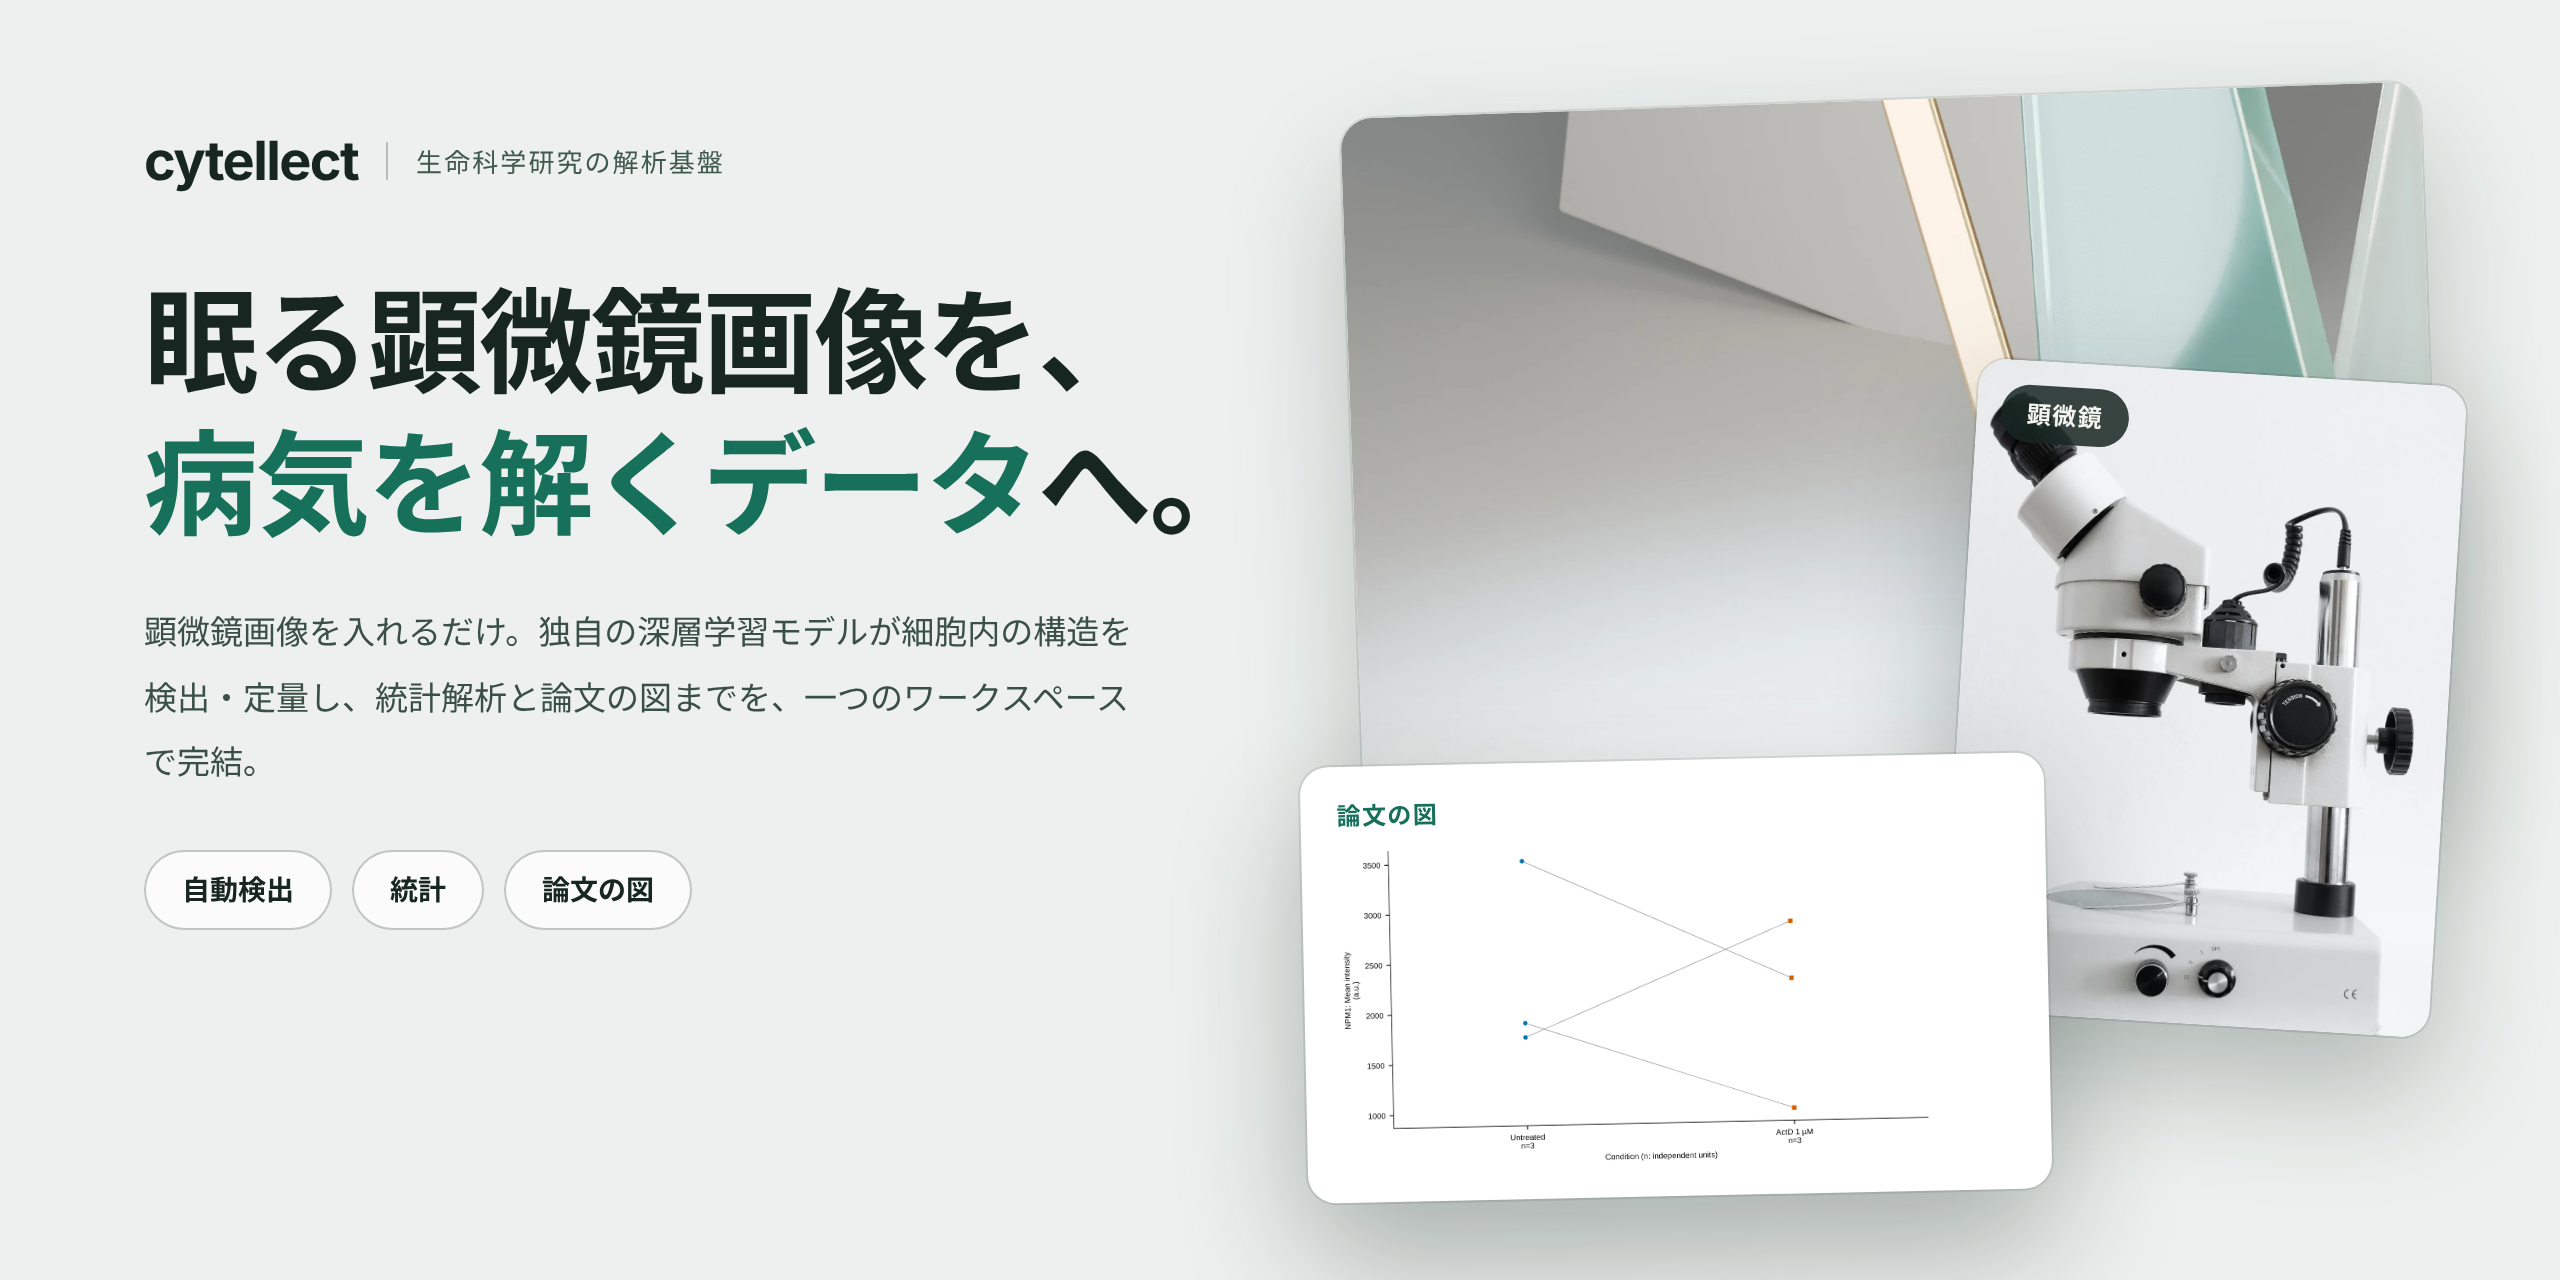
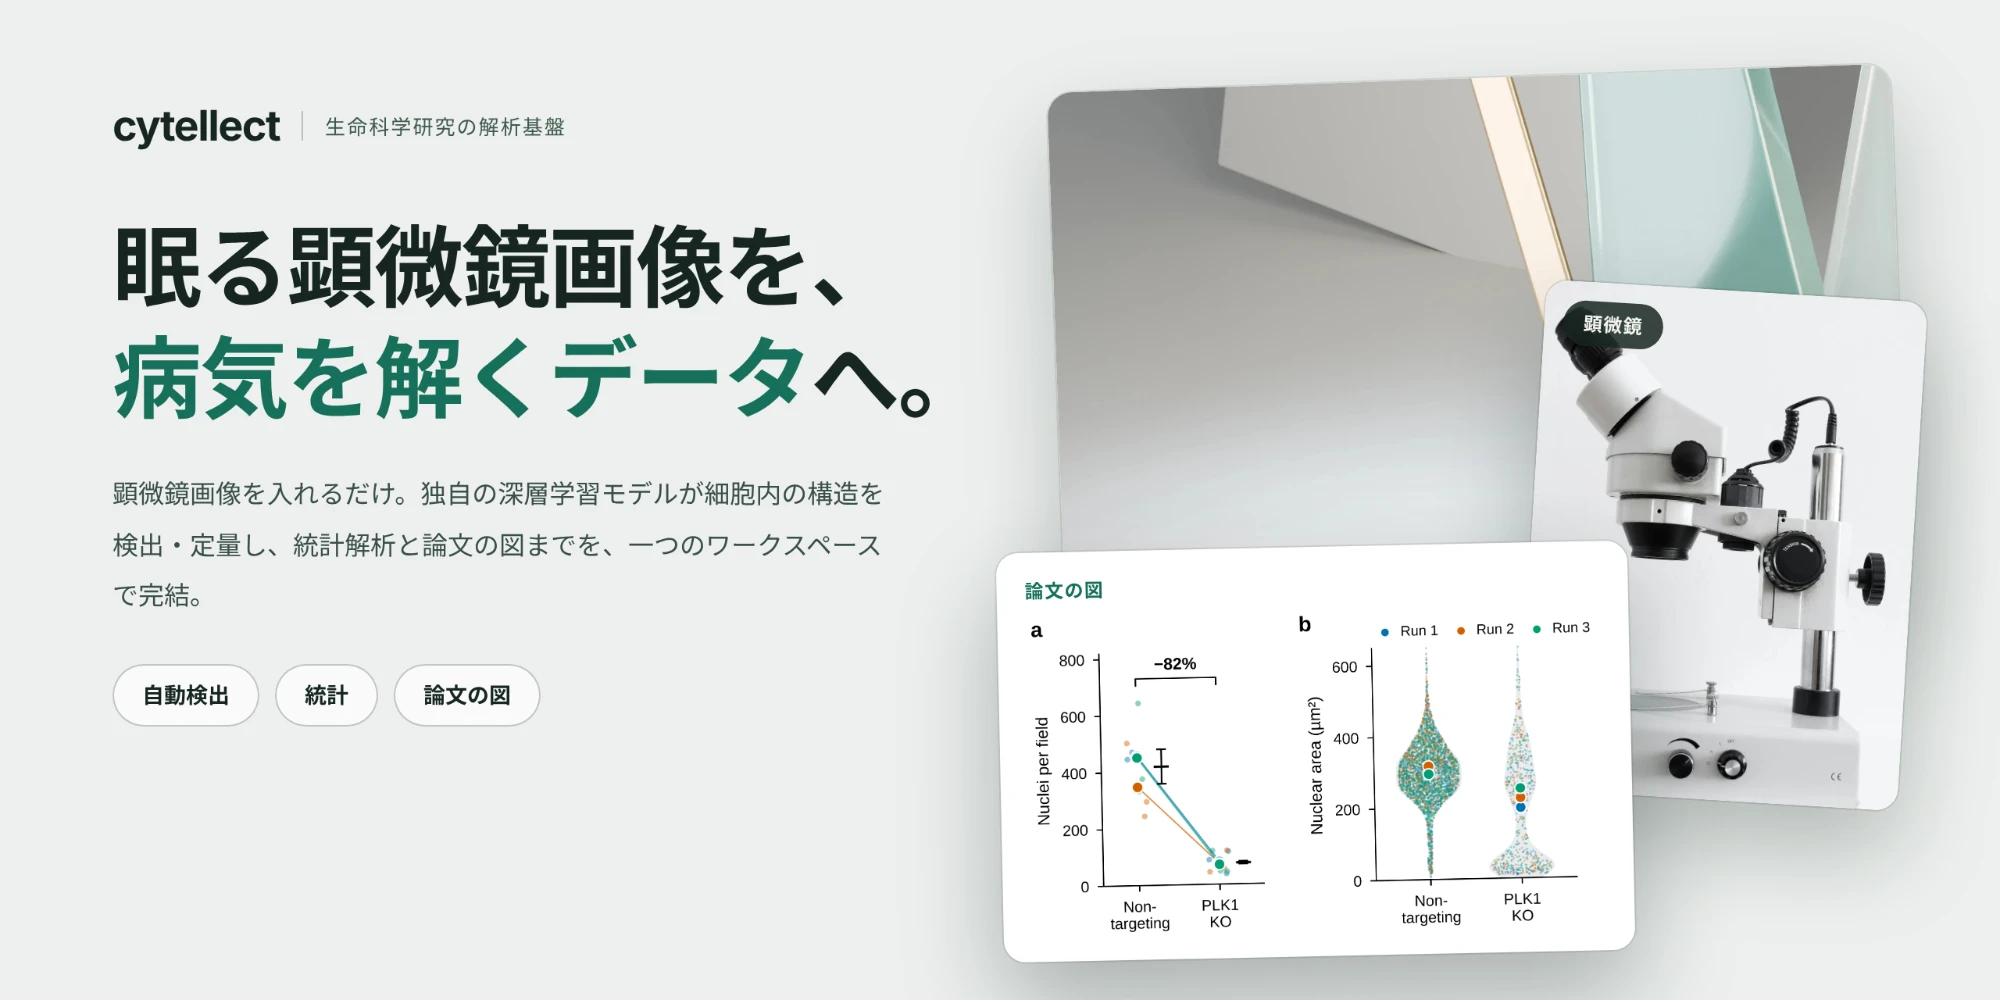
content(products): Cytellectの紹介画像を論文の図を更新した版に差し替え (#26)
Claude-Session: https://claude.ai/code/session_01XeXc3i7F6U7PRkn9zFx6fr

Changed region(s): [[0.496, 0.527, 0.837, 0.961], [0.682, 0.62, 0.713, 0.651]]

diff --git a/tests/e2e/founder-products-3d.spec.ts b/tests/e2e/founder-products-3d.spec.ts
@@ -66,7 +66,7 @@ for (const language of ["ja", "en"] as const) {
       for (const [index, naturalWidth] of [[0, 1920], [1, 1280], [3, 1920]] as const) {
         const image = cards.nth(index).locator("img");
         await image.scrollIntoViewIfNeeded();
-        await expect.poll(() => image.evaluate((el: HTMLImageElement) => el.naturalWidth)).toBe(language === "ja" && index === 0 ? 2560 : naturalWidth);
+        await expect.poll(() => image.evaluate((el: HTMLImageElement) => el.naturalWidth)).toBe(language === "ja" && index === 0 ? 2000 : naturalWidth);
         await expect(cards.nth(index).locator("canvas, video")).toHaveCount(0);
       }
       // Visible card titles must not overflow, including the restored EN Topos headline.
@@ -113,7 +113,7 @@ test("Product stills and links work before JavaScript", async ({ browser }, test
       for (const [key, naturalWidth] of [["cytellect", 1920], ["topos", 1280], ["platform", 1920]] as const) {
         const card = products.locator(`[data-product="${key}"]`);
         await card.scrollIntoViewIfNeeded();
-        await expect.poll(() => card.locator("img").evaluate((el: HTMLImageElement) => el.naturalWidth)).toBe(route === "" && key === "cytellect" ? 2560 : naturalWidth);
+        await expect.poll(() => card.locator("img").evaluate((el: HTMLImageElement) => el.naturalWidth)).toBe(route === "" && key === "cytellect" ? 2000 : naturalWidth);
         await expect(card.getByRole("link").first()).toBeVisible();
       }
       await expect(products.locator("article")).toHaveCount(4);

diff --git a/src/shared/products/FounderProducts.tsx b/src/shared/products/FounderProducts.tsx
@@ -47,7 +47,7 @@ export function FounderProducts({ products, language = "ja" }: { products: reado
                       <img
                         src={!english && product.key === "cytellect" ? "/images/founder-products/cytellect/research-jp.png" : STILLS[product.key].src}
                         alt={!english && product.key === "cytellect" ? jaControls.cytellectImageAlt : english ? STILLS[product.key].en : STILLS[product.key].ja}
-                        width={!english && product.key === "cytellect" ? 2560 : STILLS[product.key].width} height={!english && product.key === "cytellect" ? 1280 : STILLS[product.key].height} loading="lazy" decoding="async"
+                        width={!english && product.key === "cytellect" ? 2000 : STILLS[product.key].width} height={!english && product.key === "cytellect" ? 1000 : STILLS[product.key].height} loading="lazy" decoding="async"
                       />
                     </div>
                   ) : <ProductSculpture kind={product.key} paused={paused} />}

diff --git a/public/images/founder-products/cytellect/research-jp-source.md b/public/images/founder-products/cytellect/research-jp-source.md
@@ -1,1 +1,1 @@
-User-provided Cytellect promotional artwork, supplied 2026-11-13 for the JP portfolio. research-jp.png is the full original 2560 x 1280 artwork, without cropping or recoloring. Card copy and recognition remain unchanged.
+User-provided Cytellect promotional artwork, supplied 2026-11-18 for the JP portfolio (replaces the 2026-11-13 version; only the paper-figure panel changed). research-jp.png is the full original 2000 x 1000 artwork, without cropping or recoloring (converted from the supplied WebP to PNG losslessly). Card copy and recognition remain unchanged.
